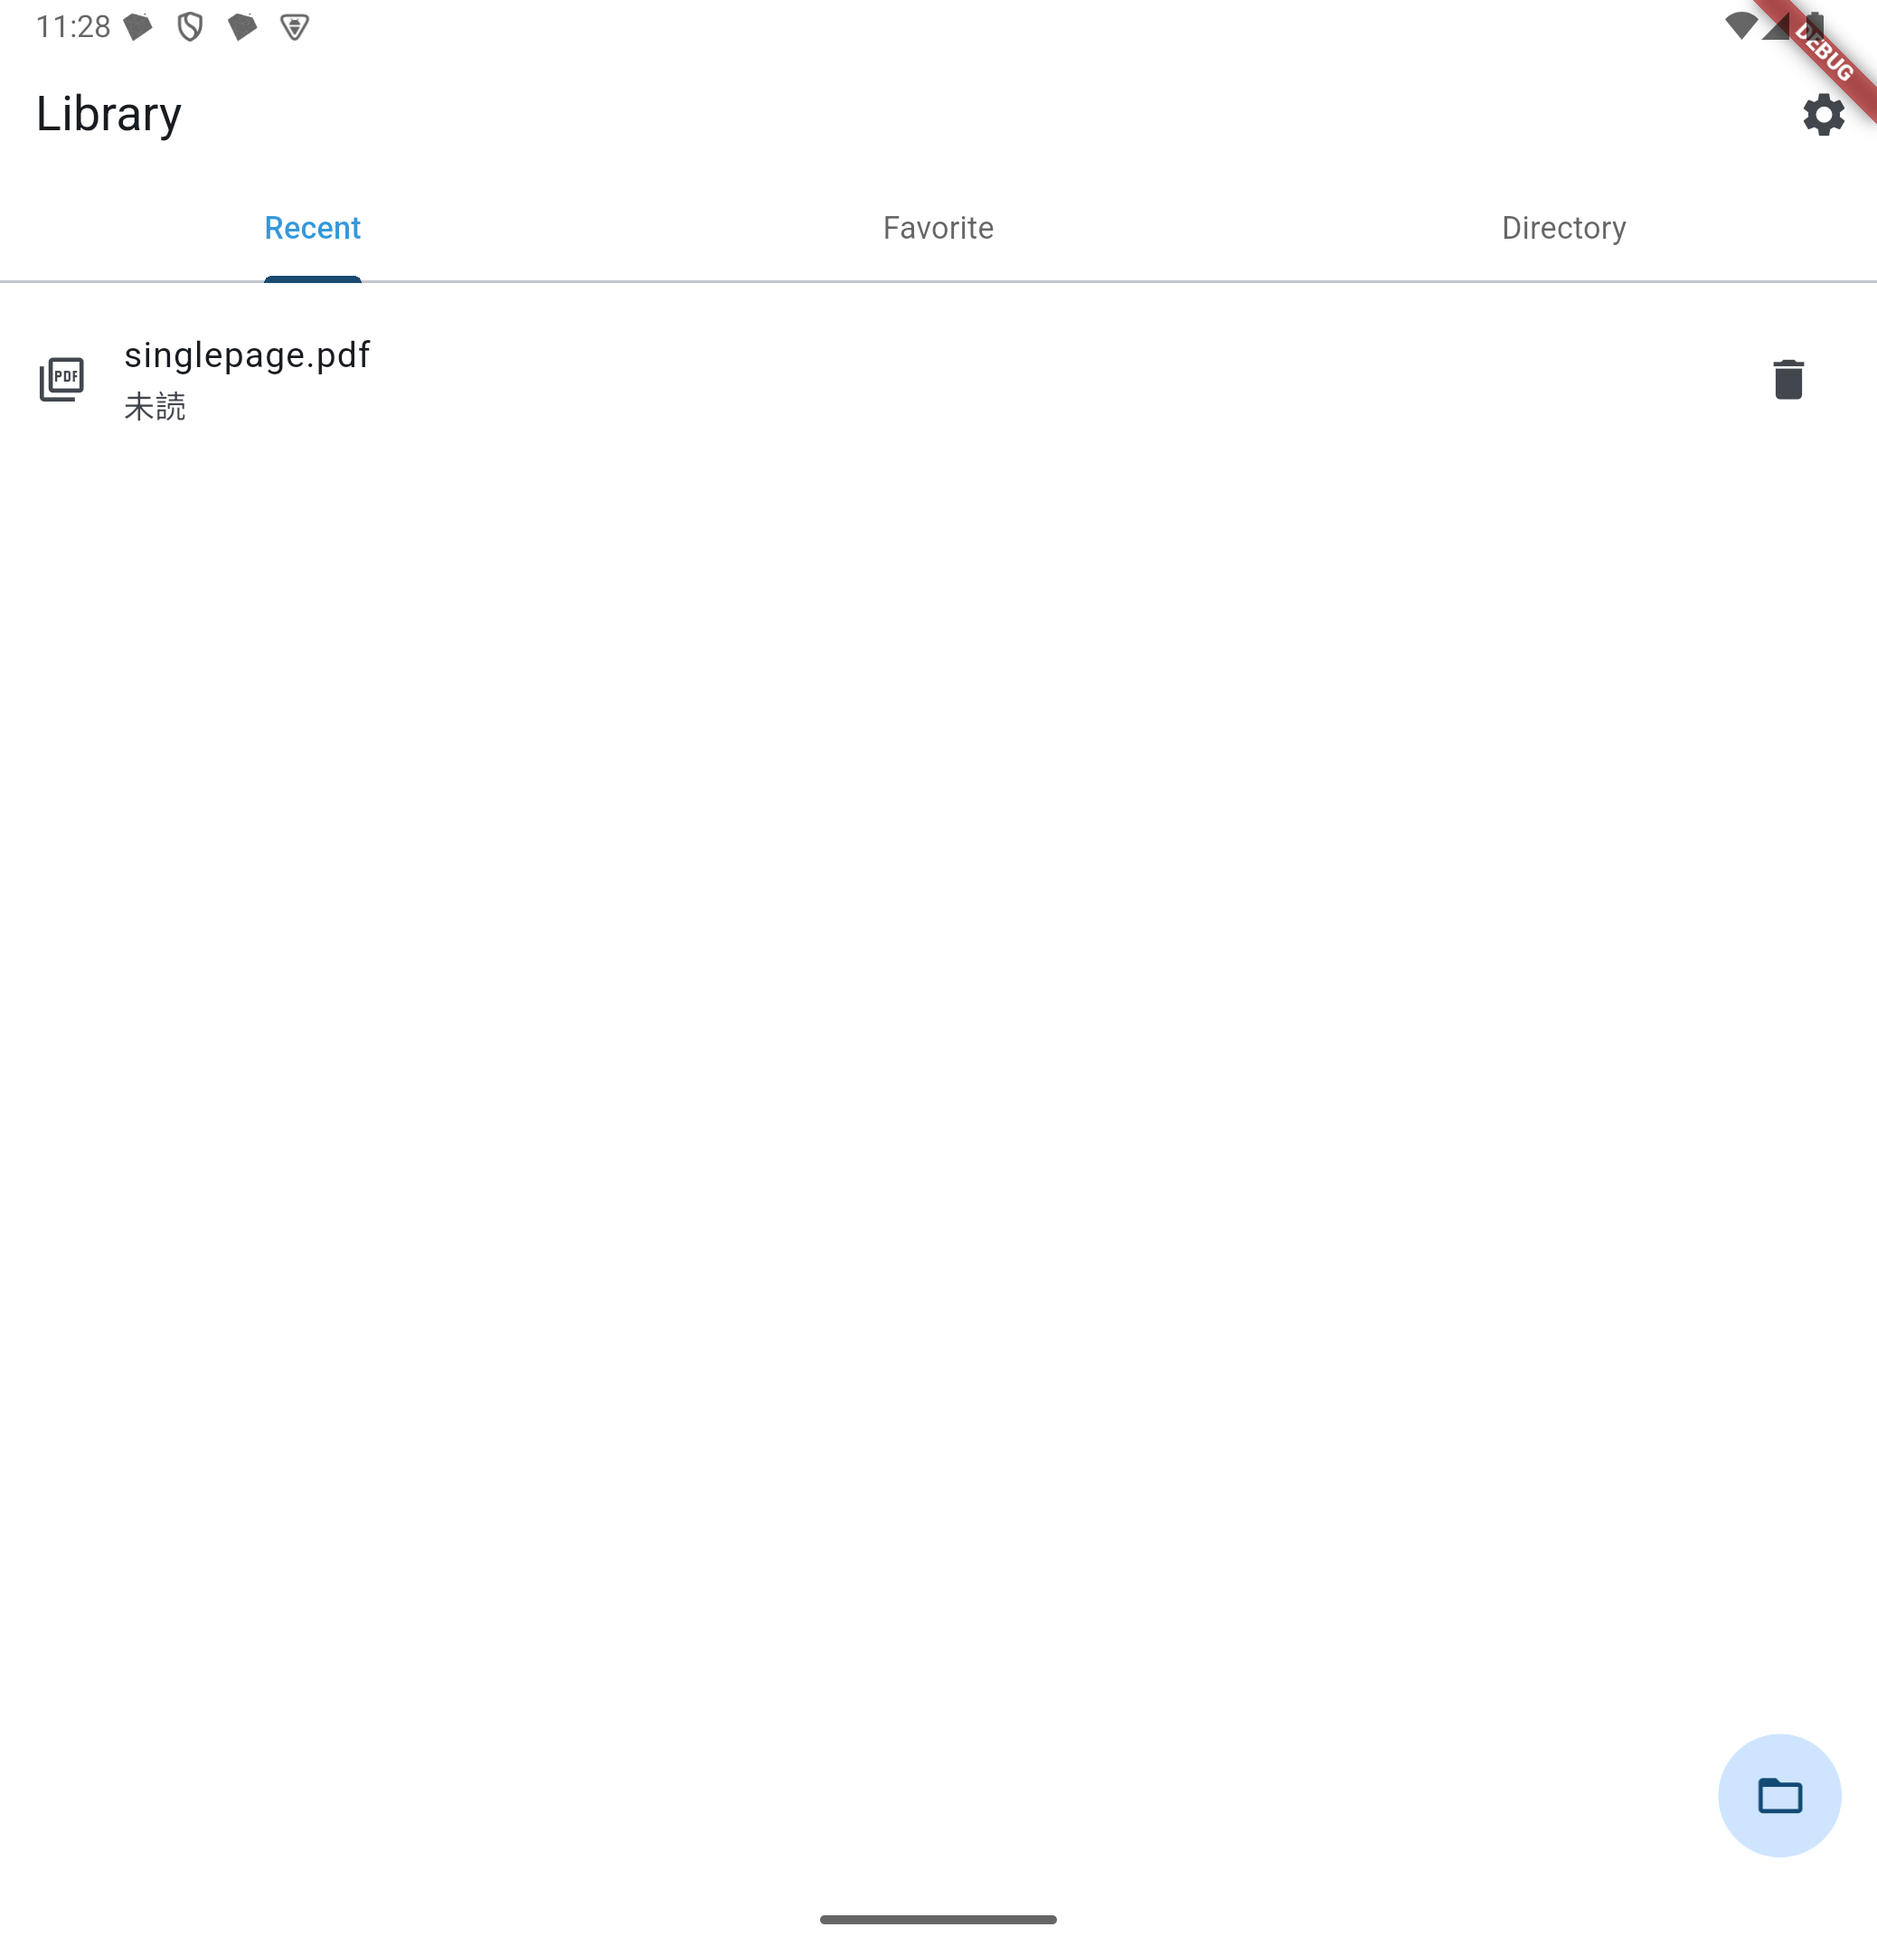
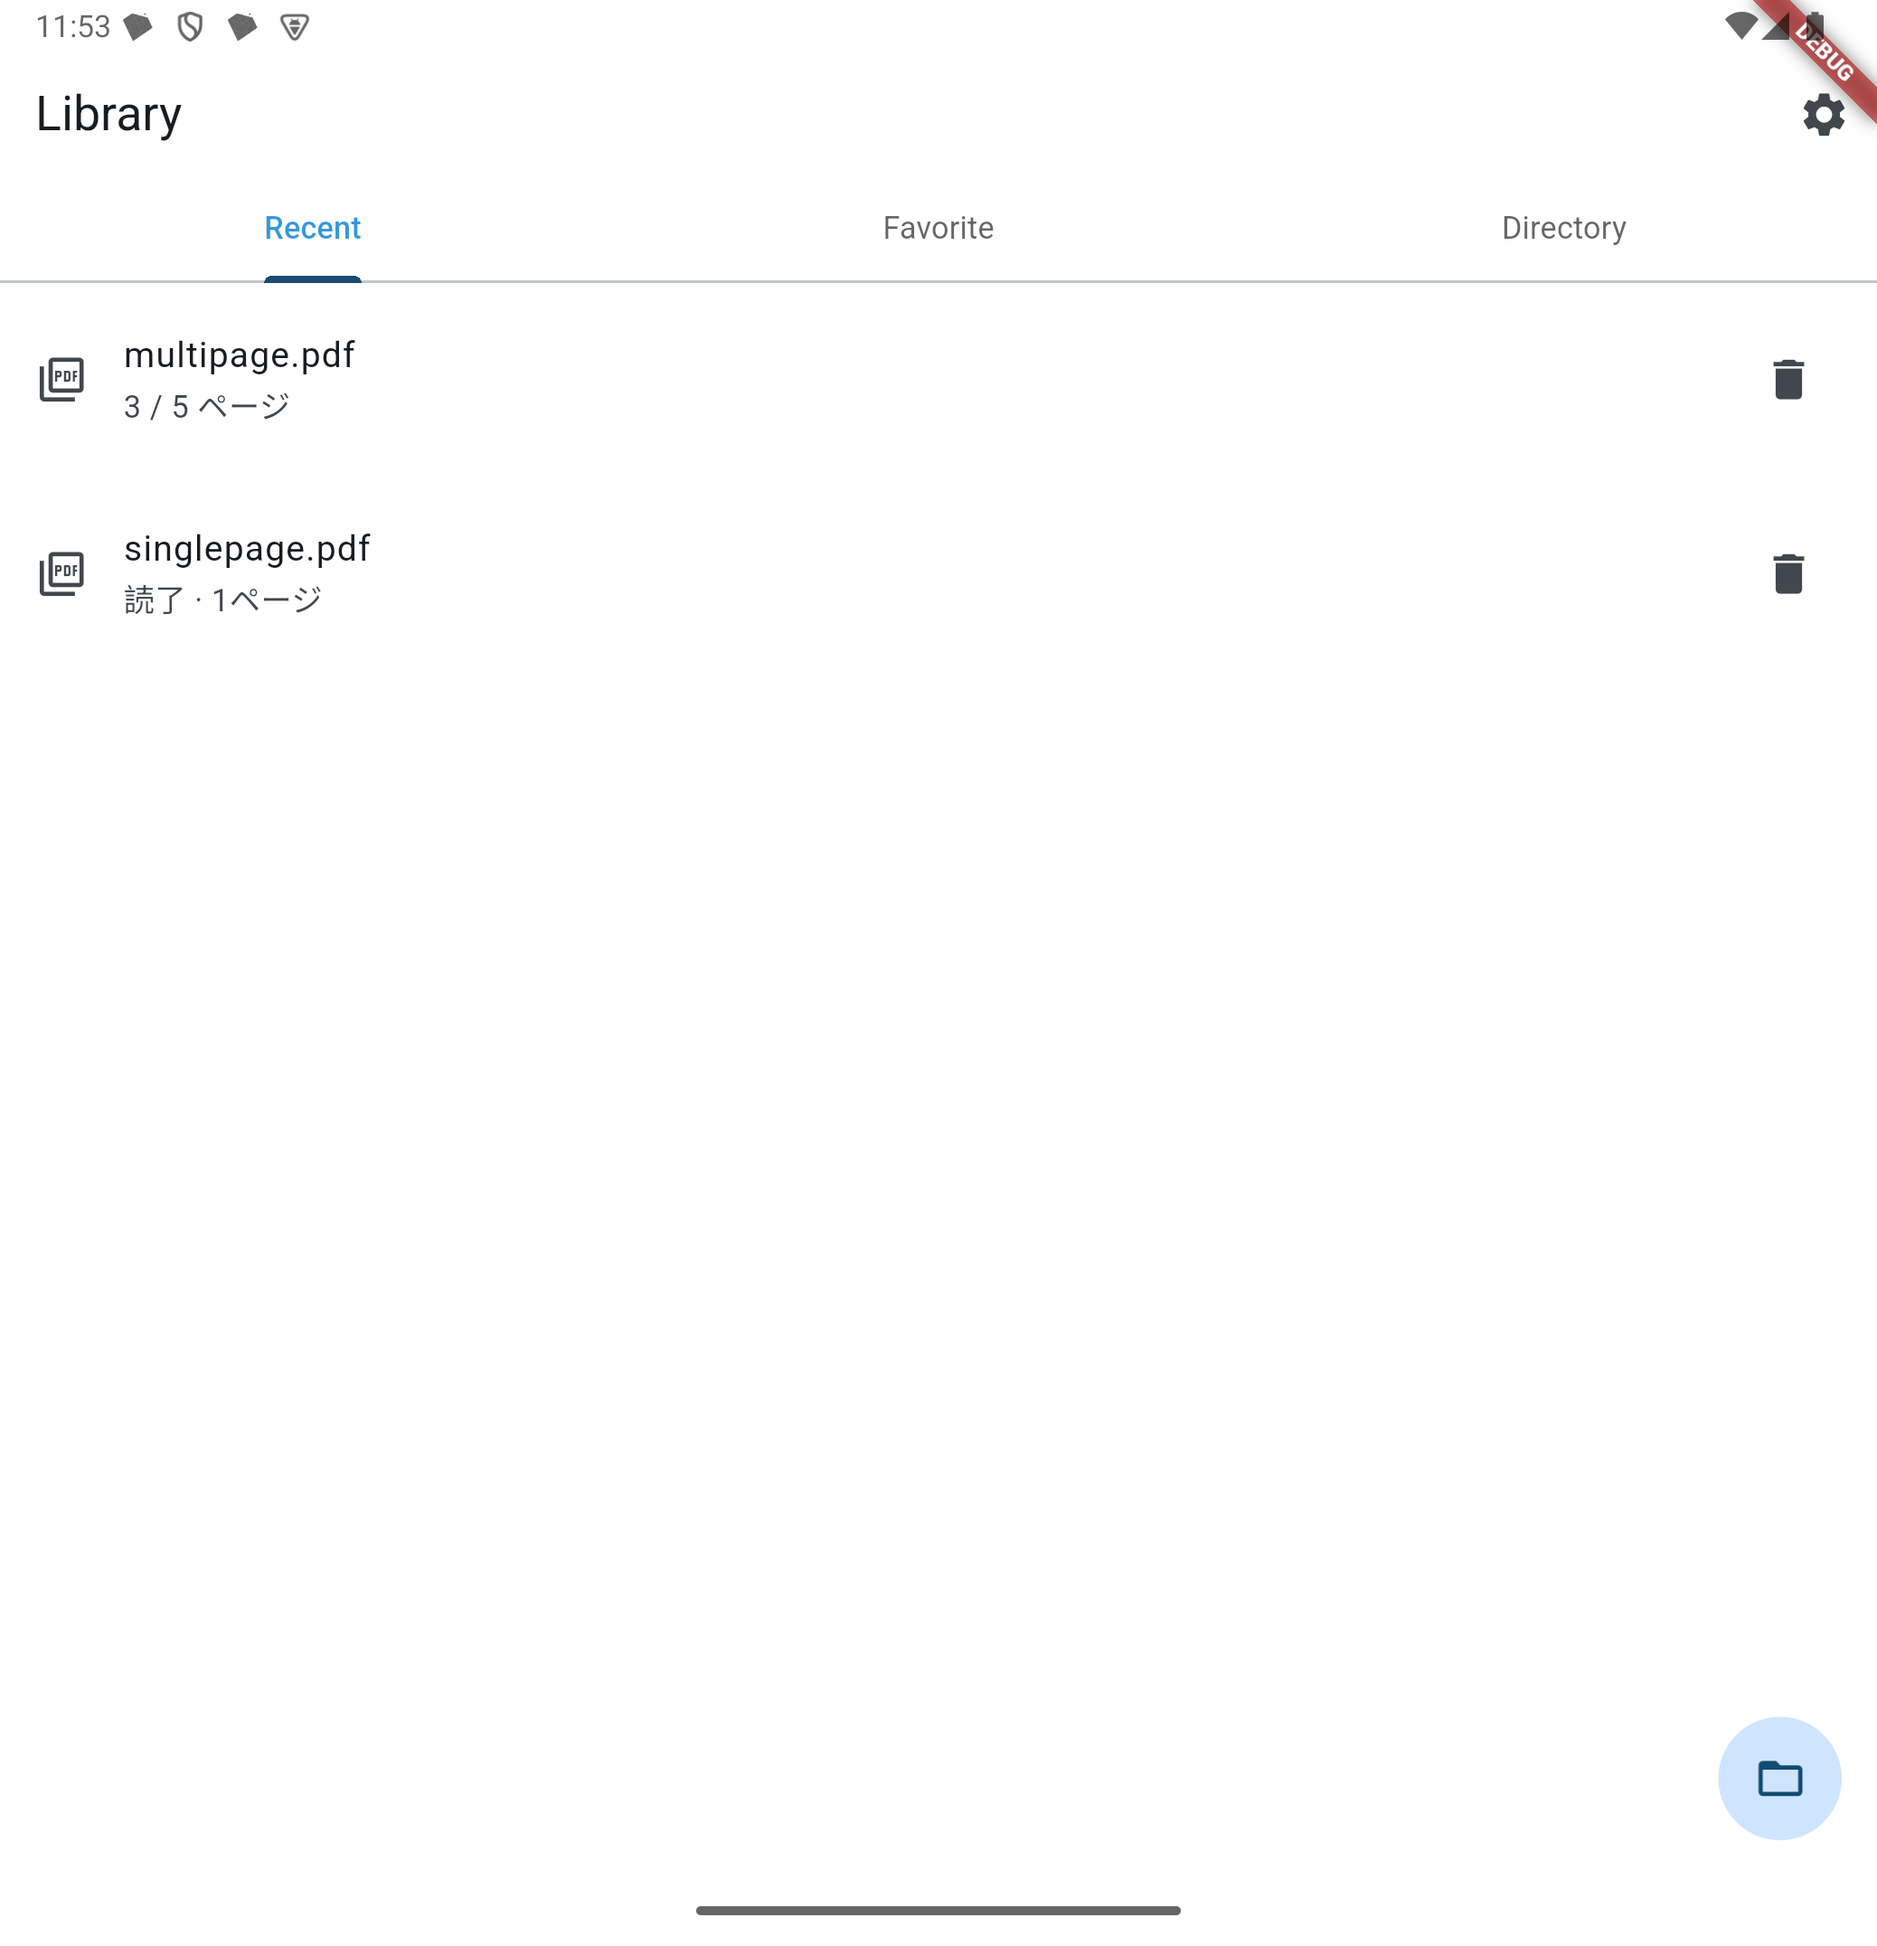
docs: README を実態に合わせて書き直す
flutter create のテンプレートのままだったため、アプリの説明・対応状況・
開発手順・ディレクトリ構成・ファイルの扱いの設計方針を記載する。
設定画面のスクリーンショットを追加し、Recent の画像を進捗表示のものへ更新。

Closes #23

diff --git a/README.md b/README.md
@@ -1,16 +1,77 @@
-# flutter_pdf_reader
+# Flexta PDF Reader
 
-A new Flutter project.
+読みかけの位置を覚えてくれる、シンプルな PDF リーダー。
 
-## Getting Started
+<img src="docs/screenshots/library-recent.png" width="230"> <img src="docs/screenshots/viewer-resume-page3.png" width="230"> <img src="docs/screenshots/settings.png" width="230">
 
-This project is a starting point for a Flutter application.
+## できること
 
-A few resources to get you started if this is your first Flutter project:
+- **ライブラリ** — 開いた PDF をアプリ内に取り込み、Recent / Favorite で一覧する
+- **読書位置の記憶** — どのページまで読んだかを自動で保存し、次に開くとそこから再開する
+- **重複しない** — 同じ PDF を選び直しても 1 件にまとまり、読書位置が引き継がれる
+- **フォルダ登録** — よく使うフォルダを登録して、その中の PDF を一覧から開く
+- **表示設定** — 横 / 縦スクロールの切り替え、System / Light / Dark テーマ
 
-- [Lab: Write your first Flutter app](https://docs.flutter.dev/get-started/codelab)
-- [Cookbook: Useful Flutter samples](https://docs.flutter.dev/cookbook)
+## 対応プラットフォーム
 
-For help getting started with Flutter development, view the
-[online documentation](https://docs.flutter.dev/), which offers tutorials,
-samples, guidance on mobile development, and a full API reference.
+| プラットフォーム | 状態 |
+|---|---|
+| Android | 動作確認済み（Android 15 / API 35） |
+| iOS / macOS | 未確認。CocoaPods が必要（`brew install cocoapods`） |
+| Windows / Linux / Web | 未確認 |
+
+## 開発環境
+
+Flutter 3.44 系（Dart 3.12）。Android のビルドには JDK 17 以降が要る。
+
+```bash
+flutter pub get
+flutter analyze          # 警告 0 件を維持する
+flutter test
+flutter run -d <device>
+```
+
+### リリースビルド
+
+`android/key.properties` に署名情報を置くと release 署名が使われる。
+
+```properties
+storeFile=/path/to/keystore.jks
+storePassword=...
+keyAlias=...
+keyPassword=...
+```
+
+このファイルが無い場合は debug 鍵で署名されるため、署名情報なしでも
+`flutter run --release` は動く。
+
+## ディレクトリ構成
+
+```
+lib/
+├── main.dart                     アプリのエントリと配色テーマ
+├── models/
+│   └── library_document.dart     ライブラリ1件分のデータ
+├── screens/
+│   ├── library.dart              ホーム（Recent / Favorite / Directory）
+│   ├── viewer.dart               PDF ビューア
+│   └── settings.dart             設定
+├── store/
+│   ├── library_store.dart        取り込み・読書位置・お気に入り・削除
+│   └── settings_store.dart       テーマとスクロール方向
+└── components/
+    └── confirm_dialog.dart       確認ダイアログ
+```
+
+状態管理は Riverpod。永続化はライブラリが sqflite、設定が SharedPreferences。
+
+### ファイルの扱いについて
+
+Android のファイル選択（SAF）が返すのは元ファイルではなく、キャッシュ配下の
+一時パスで、同じファイルを選び直すたびに変わる。そのためこのアプリは選択された
+PDF をアプリ内ストレージへ取り込み、**内容から導出したハッシュを永続 ID** として
+扱う。設計の詳細は [CLAUDE.md](CLAUDE.md) に書いてある。
+
+## ライセンス
+
+未設定。
